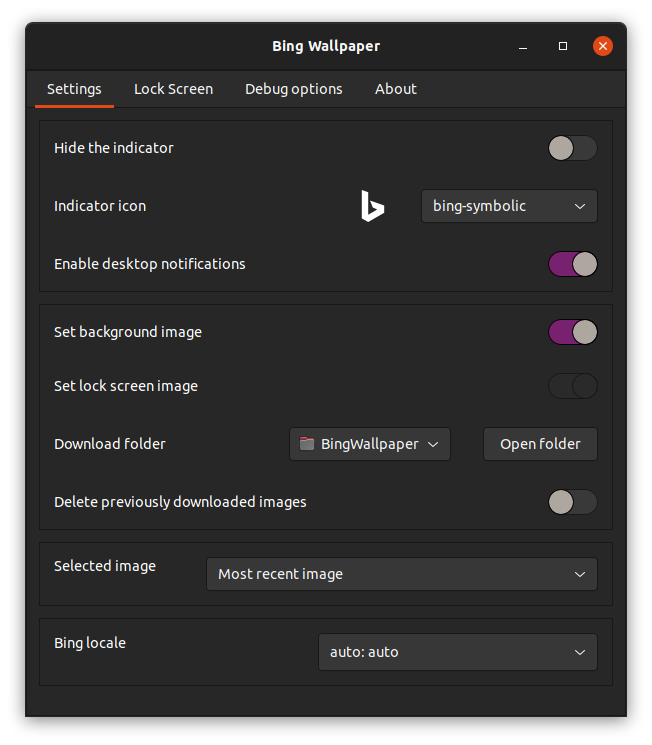
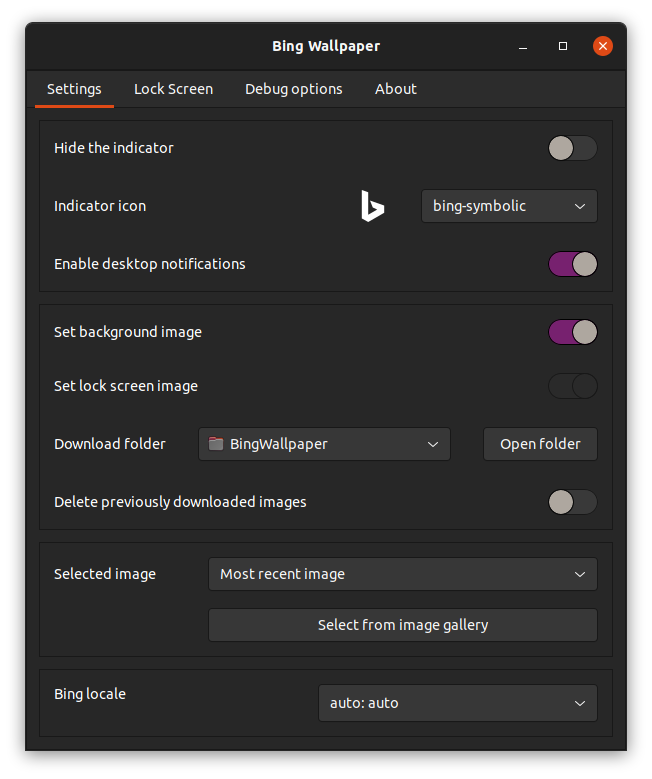
add random to gallery, random interval options

diff --git a/carousel.js b/carousel.js
@@ -7,11 +7,7 @@
 // See the GNU General Public License, version 3 or later for details.
 // Based on GNOME shell extension NASA APOD by Elia Argentieri https://github.com/Elinvention/gnome-shell-extension-nasa-apod
 
-const Gtk = imports.gi.Gtk;
-const Gdk = imports.gi.Gdk;
-const GdkPixbuf = imports.gi.GdkPixbuf;
-const Gio = imports.gi.Gio;
-const GLib = imports.gi.GLib;
+const { Gtk, Gdk, GdkPixbuf, Gio, GLib } = imports.gi;
 const Me = imports.misc.extensionUtils.getCurrentExtension();
 const Utils = Me.imports.utils;
 const Lang = imports.lang;
@@ -56,12 +52,12 @@ var Carousel = class Carousel {
         win.set_default_size(dimensions[2], dimensions[3]);
         win.set_title(title);
         if (Gtk.get_major_version() < 4) {
-            buildable.add_objects_from_file(Me.dir.get_path() + '/carousel.ui', ['carouselScrollable']);
+            buildable.add_objects_from_file(Me.dir.get_path() + '/ui/carousel.ui', ['carouselScrollable']);
             flowBox = buildable.get_object('carouselFlowBox');
             win.add(buildable.get_object('carouselScrollable'));
         }
         else {
-            buildable.add_objects_from_file(Me.dir.get_path() + '/carousel4.ui', ['carouselScrollable']);
+            buildable.add_objects_from_file(Me.dir.get_path() + '/ui/carousel4.ui', ['carouselScrollable']);
             flowBox = buildable.get_object('carouselFlowBox');
             win.set_child(buildable.get_object('carouselScrollable'));
         }
@@ -70,6 +66,13 @@ var Carousel = class Carousel {
 
     _create_gallery() {
         let that = this;
+        Utils.randomIntervals.forEach(function (seconds, i) {
+            let item = that._create_random_item(seconds, Utils.randomIntervalsTitle[i]);
+            if (Gtk.get_major_version() < 4)
+                that.flowBox.add(item);
+            else 
+                that.flowBox.insert(item, -1);
+        });
         this.imageList.forEach(function (image) {
             let item = that._create_gallery_item(image);
             if (Gtk.get_major_version() < 4)
@@ -83,9 +86,9 @@ var Carousel = class Carousel {
         let that = this;
         let buildable = new Gtk.Builder();
         if (Gtk.get_major_version() < 4) // grab appropriate object from UI file
-            buildable.add_objects_from_file(Me.dir.get_path() + '/carousel.ui', ["flowBoxChild"]);
+            buildable.add_objects_from_file(Me.dir.get_path() + '/ui/carousel.ui', ["flowBoxChild"]);
         else
-            buildable.add_objects_from_file(Me.dir.get_path() + '/carousel4.ui', ["flowBoxChild"]);
+            buildable.add_objects_from_file(Me.dir.get_path() + '/ui/carousel4.ui', ["flowBoxChild"]);
         let galleryImage = buildable.get_object('galleryImage');
         let imageLabel = buildable.get_object('imageLabel');
         let filename = Utils.imageToFilename(this.settings, image);
@@ -97,6 +100,7 @@ var Carousel = class Carousel {
         }
         catch (e) {
             galleryImage.set_from_icon_name('image-missing', '64x64');
+            galleryImage.set_icon_size = 2; // Gtk.GTK_ICON_SIZE_LARGE;
             log('create_gallery_image: '+e);
         }
         galleryImage.set_tooltip_text(Utils.getImageTitle(image));
@@ -122,5 +126,24 @@ var Carousel = class Carousel {
         return item;
     }
 
-    
+    _create_random_item(seconds, title) {
+        let that = this;
+        let buildable = new Gtk.Builder();
+        if (Gtk.get_major_version() < 4) // grab appropriate object from UI file
+            buildable.add_objects_from_file(Me.dir.get_path() + '/ui/carousel.ui', ["flowBoxRandom"]);
+        else
+            buildable.add_objects_from_file(Me.dir.get_path() + '/ui/carousel4.ui', ["flowBoxRandom"]);
+        let randomLabel = buildable.get_object('randomLabel');
+        randomLabel.set_label(title);
+        let filename = 'random';
+        let applyButton = buildable.get_object('randomButton');
+
+        applyButton.connect('clicked', function(widget) {
+            that.settings.set_string('selected-image', filename);
+            that.settings.set_int('random-interval', seconds);
+            log('gallery selected random with interval '+seconds);
+        });
+        let item = buildable.get_object('flowBoxRandom');
+        return item;
+    }
 };

diff --git a/extension.js b/extension.js
@@ -20,7 +20,7 @@ const Utils = Me.imports.utils;
 const Blur = Me.imports.blur;
 const Thumbnail = Me.imports.thumbnail;
 const BWClipboard = Me.imports.BWClipboard;
-const Carousel = Me.imports.carousel;
+//const Carousel = Me.imports.carousel;
 const Convenience = Me.imports.convenience;
 const Gettext = imports.gettext.domain('BingWallpaper');
 const _ = Gettext.gettext;
@@ -121,7 +121,6 @@ class BingWallpaperIndicator extends PanelMenu.Button {
         this.clipboardImageItem = new PopupMenu.PopupMenuItem(_("Copy image to clipboard"));
         this.clipboardURLItem = new PopupMenu.PopupMenuItem(_("Copy image URL to clipboard"));
         this.folderItem = new PopupMenu.PopupMenuItem(_("Open image folder"));
-        this.carouselItem = new PopupMenu.PopupMenuItem(_("Open image gallery"));
         this.dwallpaperItem = new PopupMenu.PopupMenuItem(_("Set background image"));
         this.swallpaperItem = new PopupMenu.PopupMenuItem(_("Set lock screen image"));
         this.refreshItem = new PopupMenu.PopupMenuItem(_("Refresh Now"));
@@ -156,7 +155,6 @@ class BingWallpaperIndicator extends PanelMenu.Button {
         }
 
         this.menu.addMenuItem(this.folderItem);
-        this.menu.addMenuItem(this.carouselItem);
         this.menu.addMenuItem(this.dwallpaperItem);
         if (!Convenience.currentVersionGreaterEqual("3.36")) { // lockscreen and desktop wallpaper are the same in GNOME 3.36+
             this.menu.addMenuItem(this.swallpaperItem);
@@ -168,14 +166,12 @@ class BingWallpaperIndicator extends PanelMenu.Button {
         this.copyrightItem.setSensitive(false);
         this.refreshDueItem.setSensitive(false);
         this.thumbnailItem.setSensitive(false);
-        this.carouselItem.setSensitive(false); // currently disabled
         this.thumbnailItem.connect('activate', this._openInSystemViewer.bind(this));
         this.titleItem.connect('activate', function() {
             if (this.imageinfolink)
                 Util.spawn(["xdg-open", this.imageinfolink]);
         });
         this.folderItem.connect('activate', Utils.openImageFolder.bind(this, this._settings));
-        this.carouselItem.connect('activate', this._carouselOpen.bind(this)); 
         this.dwallpaperItem.connect('activate', this._setBackgroundDesktop.bind(this));
         this.refreshItem.connect('activate', this._refresh.bind(this));
         this.settingsItem.connect('activate', this._openPrefs.bind(this));
@@ -698,18 +694,6 @@ class BingWallpaperIndicator extends PanelMenu.Button {
     // open image in default image view
     _openInSystemViewer() {
         Utils.openInSystemViewer(this.filename);
-    }
-
-    _carouselOpen() {
-        //carousel = new Carousel.Carousel(this._settings, null, this._carouselClosed);
-        this.carouselItem.setSensitive(false);
-        log('Carousel opened');
-    }
-
-    _carouselClosed() {
-        carousel = null;
-        log('Carousel closed');
-        this.carouselItem.setSensitive(true);
     }
 
     stop() {

diff --git a/prefs.js b/prefs.js
@@ -39,7 +39,7 @@ function buildPrefsWidget() {
     // Prepare labels and controls
     let buildable = new Gtk.Builder();
     if (Gtk.get_major_version() == 4) { // GTK4 removes some properties, and builder breaks when it sees them
-        buildable.add_from_file( Me.dir.get_path() + '/Settings4.ui' );
+        buildable.add_from_file( Me.dir.get_path() + '/ui/Settings4.ui' );
         /* // CSS not yet used
         provider.load_from_path(Me.dir.get_path() + '/prefs.css'); 
         Gtk.StyleContext.add_provider_for_display(
@@ -48,7 +48,7 @@ function buildPrefsWidget() {
         Gtk.STYLE_PROVIDER_PRIORITY_APPLICATION); */
     }
     else {
-        buildable.add_from_file( Me.dir.get_path() + '/Settings.ui' );
+        buildable.add_from_file( Me.dir.get_path() + '/ui/Settings.ui' );
     }
     
     let box = buildable.get_object('prefs_widget');
@@ -77,6 +77,7 @@ function buildPrefsWidget() {
     let debugSwitch = buildable.get_object('debug_switch');
     let revertSwitch = buildable.get_object('revert_switch');
     let unsafeSwitch = buildable.get_object('unsafe_switch');
+    let randomIntervalEntry = buildable.get_object('entry_random_interval');
     let change_log = buildable.get_object('change_log');
 
     let buttonGDMdefault = buildable.get_object('button_default_gnome');
@@ -107,7 +108,7 @@ function buildPrefsWidget() {
     settings.bind('debug-logging', debugSwitch, 'active', Gio.SettingsBindFlags.DEFAULT);
     settings.bind('revert-to-current-image', revertSwitch, 'active', Gio.SettingsBindFlags.DEFAULT);
     settings.bind('override-unsafe-wayland', unsafeSwitch, 'active', Gio.SettingsBindFlags.DEFAULT);
-
+    settings.bind('random-interval', randomIntervalEntry, 'value', Gio.SettingsBindFlags.DEFAULT);
 
     folderOpenBtn.connect('clicked', function(widget) {
         Utils.openImageFolder(settings);

diff --git a/utils.js b/utils.js
@@ -64,6 +64,9 @@ var marketName = [
     "українська (Україна)", "中文（中国）", "中文（中國香港特別行政區）", "中文（台灣）"
 ];
 
+var randomIntervals = [ 300, 3600, 86400];
+var randomIntervalsTitle = [ '00:05:00', '01:00:00', '24:00:00'];
+
 var BingImageURL = "https://www.bing.com/HPImageArchive.aspx?format=js&idx=0&n=8&mbl=1&mkt=";
 
 function getSettings() {

diff --git a/README.md b/README.md
@@ -23,8 +23,9 @@ Also, check out my related [Google Earth View wallpaper extension](https://githu
 * Optionally force a specific region (i.e. what Bing calls a "market", some Wallpapers may relate to local holidays or locations)
 * Language support: English (en), German (de), Dutch (nl), Italian (it), Polish (pl), Chinese (zh_CN), French (fr_FR), Portuguese (pt, pt_BR), Russian (ru_RU), Spanish (es), Korean (ko, ko_KR, ko_KP), Indonesian (id), Catalan (ca), Norwegian Bokmål (nb) & Nynorsk (ni), Swedish (sv), Arabic (ar) and Hungarian (hu) - a HUGE thanks to the translators
 * image preview in menus & ability to manually set wallpapers individually or copy image to clipboard
-* NEW: a selection of different theme-aware indicator (tray) icons to choose
-* NEW: override the GNOME (GDM3) lockscreen blur (requested feature #77)
+* a selection of different theme-aware indicator (tray) icons to choose
+* override the GNOME (GDM3) lockscreen blur (requested feature #77)
+* NEW: image gallery to view, select and manage stored images #115
 
 ## TODO
 
@@ -77,6 +78,7 @@ Please include logs from your journal when submitting bug notices (make sure not
 ![Settings](/screenshot/settings2.png)
 ![Settings](/screenshot/settings3.png)
 ![Settings](/screenshot/settings4.png)
+![Settings](/screenshot/settings5.png)
 
 
 Examples of adjustable blur on the lockscreen:
